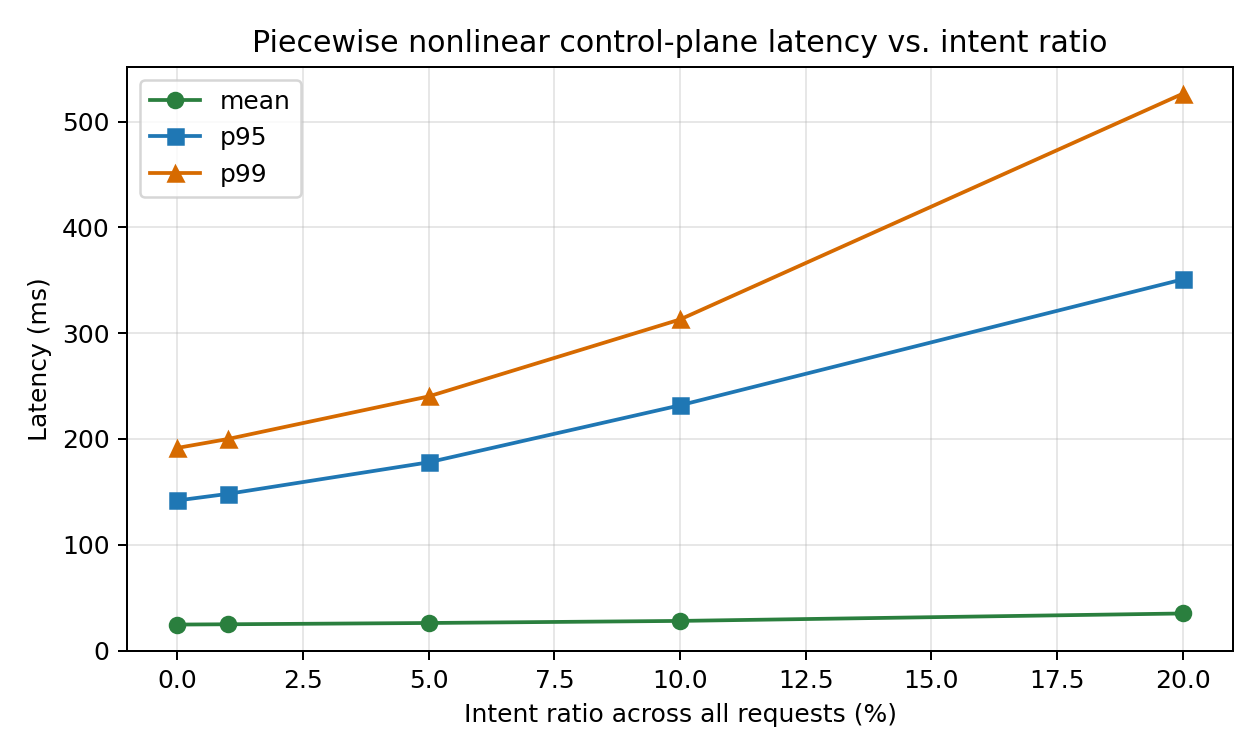
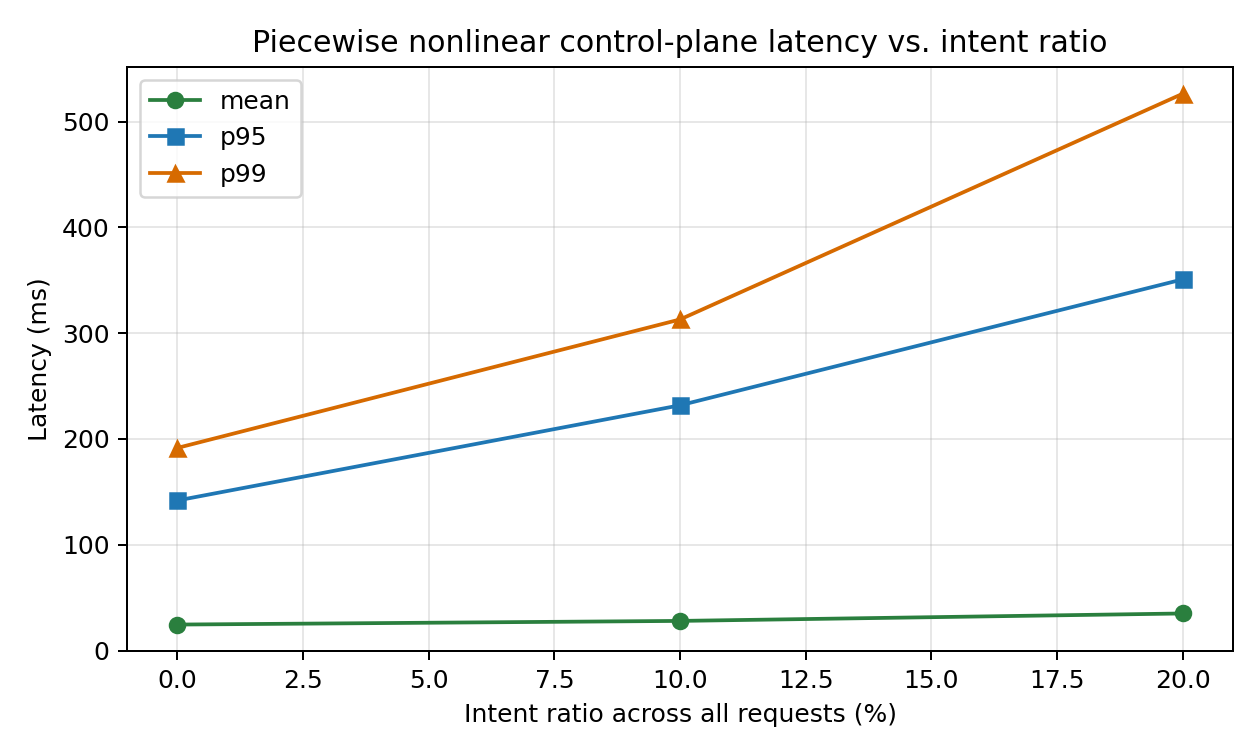
Use regular intent sweep intervals

diff --git a/webapp/src/i18n.ts b/webapp/src/i18n.ts
@@ -56,7 +56,7 @@ export const I18N: Record<Lang, Record<string, string>> = {
     p95LatencyMetric: "p95 latency (ms)",
     p99LatencyMetric: "p99 latency (ms)",
     intentSweep: "Intent Sweep",
-    intentSweepDescription: "X-axis: intent-bearing share across all request types. Results use fixed nonlinear load bands. Left Y-axis: CPU and network utilization. Right Y-axis: required Qwen3 NPUs.",
+    intentSweepDescription: "X-axis: intent-bearing share across all request types, sampled every 10 percentage points. Results use fixed nonlinear load bands. Left Y-axis: CPU and network utilization. Right Y-axis: required Qwen3 NPUs.",
     xAxisLabel: "Intent ratio (%)",
     yAxisLabel: "CPU/Network util (%) · Qwen3 NPUs",
     intentSweepAria: "Line chart showing CPU utilization, network utilization, and required Qwen3 NPU count by intent ratio.",
@@ -179,7 +179,7 @@ export const I18N: Record<Lang, Record<string, string>> = {
     p95LatencyMetric: "p95 时延（ms）",
     p99LatencyMetric: "p99 时延（ms）",
     intentSweep: "意图比例扫描",
-    intentSweepDescription: "横轴表示全部请求类型中携带意图的比例。结果采用固定的非线性负载分档。左纵轴表示 CPU 和网络利用率，右纵轴表示所需 Qwen3 NPU 数量。",
+    intentSweepDescription: "横轴表示全部请求类型中携带意图的比例，每 10 个百分点采样一次。结果采用固定的非线性负载分档。左纵轴表示 CPU 和网络利用率，右纵轴表示所需 Qwen3 NPU 数量。",
     xAxisLabel: "意图比例（%）",
     yAxisLabel: "CPU/网络利用率（%）· Qwen3 NPU 数",
     intentSweepAria: "折线图，展示不同意图比例下的 CPU 利用率、网络利用率和所需 Qwen3 NPU 数量。",

diff --git a/webapp/dist/i18n.js b/webapp/dist/i18n.js
@@ -54,7 +54,7 @@ export const I18N = {
         p95LatencyMetric: "p95 latency (ms)",
         p99LatencyMetric: "p99 latency (ms)",
         intentSweep: "Intent Sweep",
-        intentSweepDescription: "X-axis: intent-bearing share across all request types. Results use fixed nonlinear load bands. Left Y-axis: CPU and network utilization. Right Y-axis: required Qwen3 NPUs.",
+        intentSweepDescription: "X-axis: intent-bearing share across all request types, sampled every 10 percentage points. Results use fixed nonlinear load bands. Left Y-axis: CPU and network utilization. Right Y-axis: required Qwen3 NPUs.",
         xAxisLabel: "Intent ratio (%)",
         yAxisLabel: "CPU/Network util (%) · Qwen3 NPUs",
         intentSweepAria: "Line chart showing CPU utilization, network utilization, and required Qwen3 NPU count by intent ratio.",
@@ -177,7 +177,7 @@ export const I18N = {
         p95LatencyMetric: "p95 时延（ms）",
         p99LatencyMetric: "p99 时延（ms）",
         intentSweep: "意图比例扫描",
-        intentSweepDescription: "横轴表示全部请求类型中携带意图的比例。结果采用固定的非线性负载分档。左纵轴表示 CPU 和网络利用率，右纵轴表示所需 Qwen3 NPU 数量。",
+        intentSweepDescription: "横轴表示全部请求类型中携带意图的比例，每 10 个百分点采样一次。结果采用固定的非线性负载分档。左纵轴表示 CPU 和网络利用率，右纵轴表示所需 Qwen3 NPU 数量。",
         xAxisLabel: "意图比例（%）",
         yAxisLabel: "CPU/网络利用率（%）· Qwen3 NPU 数",
         intentSweepAria: "折线图，展示不同意图比例下的 CPU 利用率、网络利用率和所需 Qwen3 NPU 数量。",

diff --git a/webapp/index.html b/webapp/index.html
@@ -251,7 +251,7 @@
               <span class="panel-code">05</span>
               <h2 data-i18n="intentSweep">Intent Sweep</h2>
             </div>
-            <p class="chart-description" data-i18n="intentSweepDescription">X-axis: intent-bearing share across all request types. Results use fixed nonlinear load bands. Left Y-axis: CPU and network utilization. Right Y-axis: required Qwen3 NPUs.</p>
+            <p class="chart-description" data-i18n="intentSweepDescription">X-axis: intent-bearing share across all request types, sampled every 10 percentage points. Results use fixed nonlinear load bands. Left Y-axis: CPU and network utilization. Right Y-axis: required Qwen3 NPUs.</p>
             <div class="chart-frame">
               <div class="axis-label y-axis" data-i18n="yAxisLabel">CPU/Network util (%) · Qwen3 NPUs</div>
               <canvas id="sweepChart" width="920" height="360" aria-label="Intent sweep chart"></canvas>

diff --git a/webapp/dist/config.js b/webapp/dist/config.js
@@ -29,7 +29,7 @@ export const EVENTS = [
     { key: "handover", inputId: "eventHandover", labelKey: "handover", tipKey: "handoverTip", perUserPerHour: 23.1, baseLatencyMs: 25, baseCpuMs: 1.8, baseBandwidthKb: 12 },
     { key: "paging", inputId: "eventPaging", labelKey: "paging", tipKey: "pagingTip", perUserPerHour: 14.0, baseLatencyMs: 12, baseCpuMs: 0.6, baseBandwidthKb: 4 }
 ];
-export const SWEEP = [0, 1, 5, 10, 20, 50, 100];
+export const SWEEP = Array.from({ length: 11 }, (_, index) => index * 10);
 export const USER_COUNT_SWEEP = [100000, 1000000, 3600000, 5000000, 10000000];
 export const USER_COUNT_SWEEP_INTENT_RATIO = 20;
 export const MODEL_INPUT_IDS = [

diff --git a/webapp/src/config.ts b/webapp/src/config.ts
@@ -33,7 +33,7 @@ export const EVENTS: EventDefinition[] = [
   { key: "paging", inputId: "eventPaging", labelKey: "paging", tipKey: "pagingTip", perUserPerHour: 14.0, baseLatencyMs: 12, baseCpuMs: 0.6, baseBandwidthKb: 4 }
 ];
 
-export const SWEEP = [0, 1, 5, 10, 20, 50, 100];
+export const SWEEP = Array.from({ length: 11 }, (_, index) => index * 10);
 export const USER_COUNT_SWEEP = [100000, 1000000, 3600000, 5000000, 10000000];
 export const USER_COUNT_SWEEP_INTENT_RATIO = 20;
 export const MODEL_INPUT_IDS = [

diff --git a/scripts/agentic_model_config.py b/scripts/agentic_model_config.py
@@ -60,7 +60,7 @@ EVENTS: List[EventType] = [
     EventType("paging", 14.0, 12.0, 0.6, 4.0),
 ]
 
-INTENT_SETTINGS = [0.00, 0.01, 0.05, 0.10, 0.20, 0.50, 1.00]
+INTENT_SETTINGS = [step / 100.0 for step in range(0, 101, 10)]
 SENSITIVITY_USERS = [100_000.0, 1_000_000.0, 3_600_000.0, 5_000_000.0, 10_000_000.0]
 USER_COUNT_PLOT_INTENT_RATIO = 0.20
 QWEN3_INVOCATION_SETTINGS = [0.05, 0.10, 0.20, 0.50, 1.00]

diff --git a/agentic_core_resource_model.md b/agentic_core_resource_model.md
@@ -146,16 +146,20 @@ $$
 
 ## Analytical Results
 
-The table fixes the user population and event frequencies, then varies the percentage of all requests that carry intent. The visible results use the piecewise nonlinear load-band model.
+The table fixes the user population and event frequencies, then varies the percentage of all requests that carry intent in constant $10\%$ steps. The visible results use the piecewise nonlinear load-band model.
 
 | Intent ratio | Total intent share | Intent rps | Qwen3 rps | Effective Qwen3 tokens/s | CPU cores | CPU util | Memory traffic | Sized Qwen3 util | Required production NPUs | Network bandwidth | Mean latency | p95 latency | Status |
 | ---: | ---: | ---: | ---: | ---: | ---: | ---: | ---: | ---: | ---: | ---: | ---: | ---: | --- |
 | 0% | 0.0% | 0 | 0 | 0 | 180.3 | 70.4% | 53.402 Gbps | 0.0% | 0 | 6.779 Gbps | 24.6 ms | 141.9 ms | degraded |
-| 1% | 1.0% | 1,043 | 104 | 13,768 | 182.4 | 71.2% | 57.140 Gbps | 45.8% | 8 | 6.879 Gbps | 24.9 ms | 148.1 ms | degraded |
-| 5% | 5.0% | 5,215 | 522 | 79,164 | 190.5 | 74.4% | 72.092 Gbps | 65.8% | 32 | 7.280 Gbps | 26.1 ms | 178.0 ms | degraded |
 | 10% | 10.0% | 10,430 | 1,043 | 158,327 | 200.7 | 78.4% | 90.783 Gbps | 65.8% | 64 | 7.780 Gbps | 28.1 ms | 231.8 ms | degraded |
 | 20% | 20.0% | 20,860 | 2,086 | 316,655 | 221.1 | 86.4% | 128.164 Gbps | 67.9% | 124 | 8.782 Gbps | 35.1 ms | 350.8 ms | high_risk |
+| 30% | 30.0% | 31,290 | 3,129 | 474,982 | 283.5 | 110.7% | 165.545 Gbps | 68.7% | 184 | 9.783 Gbps | unstable | unstable | unstable |
+| 40% | 40.0% | 41,720 | 4,172 | 633,310 | 307.5 | 120.1% | 202.926 Gbps | 69.0% | 244 | 10.784 Gbps | unstable | unstable | unstable |
 | 50% | 50.0% | 52,150 | 5,215 | 791,637 | 392.8 | 153.4% | 240.307 Gbps | 69.3% | 304 | 11.786 Gbps | unstable | unstable | unstable |
+| 60% | 60.0% | 62,580 | 6,258 | 949,964 | 421.1 | 164.5% | 277.688 Gbps | 69.4% | 364 | 12.787 Gbps | unstable | unstable | unstable |
+| 70% | 70.0% | 73,010 | 7,301 | 1,108,292 | 449.5 | 175.6% | 315.069 Gbps | 69.5% | 424 | 13.788 Gbps | unstable | unstable | unstable |
+| 80% | 80.0% | 83,440 | 8,344 | 1,266,619 | 477.9 | 186.7% | 352.451 Gbps | 69.6% | 484 | 14.789 Gbps | unstable | unstable | unstable |
+| 90% | 90.0% | 93,870 | 9,387 | 1,424,947 | 506.2 | 197.7% | 389.832 Gbps | 69.7% | 544 | 15.791 Gbps | unstable | unstable | unstable |
 | 100% | 100.0% | 104,300 | 10,430 | 1,583,274 | 534.6 | 208.8% | 427.213 Gbps | 69.7% | 604 | 16.792 Gbps | unstable | unstable | unstable |
 
 Generated results are available in `outputs/agentic_resource_results.csv`. The user-count sensitivity sweep is available in `outputs/agentic_resource_sensitivity.csv`. The Qwen3 sizing sensitivity sweep is available in `outputs/agentic_qwen3_sizing_sensitivity.csv`.

diff --git a/agentic_core_resource_model_zh.md b/agentic_core_resource_model_zh.md
@@ -146,16 +146,20 @@ $$
 
 ## 分析结果
 
-下表固定用户规模和事件频率，仅改变全部请求中携带意图的比例。可见结果使用分段式非线性负载模型。
+下表固定用户规模和事件频率，仅以固定 $10\%$ 步长改变全部请求中携带意图的比例。可见结果使用分段式非线性负载模型。
 
 | 意图比例 | 总意图占比 | 意图 rps | Qwen3 rps | 有效 Qwen3 tokens/s | CPU 核 | CPU 利用率 | 内存流量 | 规划后 Qwen3 利用率 | 所需生产 NPU | 网络带宽 | 平均时延 | p95 时延 | 状态 |
 | ---: | ---: | ---: | ---: | ---: | ---: | ---: | ---: | ---: | ---: | ---: | ---: | ---: | --- |
 | 0% | 0.0% | 0 | 0 | 0 | 180.3 | 70.4% | 53.402 Gbps | 0.0% | 0 | 6.779 Gbps | 24.6 ms | 141.9 ms | 退化 |
-| 1% | 1.0% | 1,043 | 104 | 13,768 | 182.4 | 71.2% | 57.140 Gbps | 45.8% | 8 | 6.879 Gbps | 24.9 ms | 148.1 ms | 退化 |
-| 5% | 5.0% | 5,215 | 522 | 79,164 | 190.5 | 74.4% | 72.092 Gbps | 65.8% | 32 | 7.280 Gbps | 26.1 ms | 178.0 ms | 退化 |
 | 10% | 10.0% | 10,430 | 1,043 | 158,327 | 200.7 | 78.4% | 90.783 Gbps | 65.8% | 64 | 7.780 Gbps | 28.1 ms | 231.8 ms | 退化 |
 | 20% | 20.0% | 20,860 | 2,086 | 316,655 | 221.1 | 86.4% | 128.164 Gbps | 67.9% | 124 | 8.782 Gbps | 35.1 ms | 350.8 ms | 高风险 |
+| 30% | 30.0% | 31,290 | 3,129 | 474,982 | 283.5 | 110.7% | 165.545 Gbps | 68.7% | 184 | 9.783 Gbps | 不稳定 | 不稳定 | 不稳定 |
+| 40% | 40.0% | 41,720 | 4,172 | 633,310 | 307.5 | 120.1% | 202.926 Gbps | 69.0% | 244 | 10.784 Gbps | 不稳定 | 不稳定 | 不稳定 |
 | 50% | 50.0% | 52,150 | 5,215 | 791,637 | 392.8 | 153.4% | 240.307 Gbps | 69.3% | 304 | 11.786 Gbps | 不稳定 | 不稳定 | 不稳定 |
+| 60% | 60.0% | 62,580 | 6,258 | 949,964 | 421.1 | 164.5% | 277.688 Gbps | 69.4% | 364 | 12.787 Gbps | 不稳定 | 不稳定 | 不稳定 |
+| 70% | 70.0% | 73,010 | 7,301 | 1,108,292 | 449.5 | 175.6% | 315.069 Gbps | 69.5% | 424 | 13.788 Gbps | 不稳定 | 不稳定 | 不稳定 |
+| 80% | 80.0% | 83,440 | 8,344 | 1,266,619 | 477.9 | 186.7% | 352.451 Gbps | 69.6% | 484 | 14.789 Gbps | 不稳定 | 不稳定 | 不稳定 |
+| 90% | 90.0% | 93,870 | 9,387 | 1,424,947 | 506.2 | 197.7% | 389.832 Gbps | 69.7% | 544 | 15.791 Gbps | 不稳定 | 不稳定 | 不稳定 |
 | 100% | 100.0% | 104,300 | 10,430 | 1,583,274 | 534.6 | 208.8% | 427.213 Gbps | 69.7% | 604 | 16.792 Gbps | 不稳定 | 不稳定 | 不稳定 |
 
 生成结果位于 `outputs/agentic_resource_results.csv`。用户规模敏感性扫描位于 `outputs/agentic_resource_sensitivity.csv`。Qwen3 规划敏感性扫描位于 `outputs/agentic_qwen3_sizing_sensitivity.csv`。
